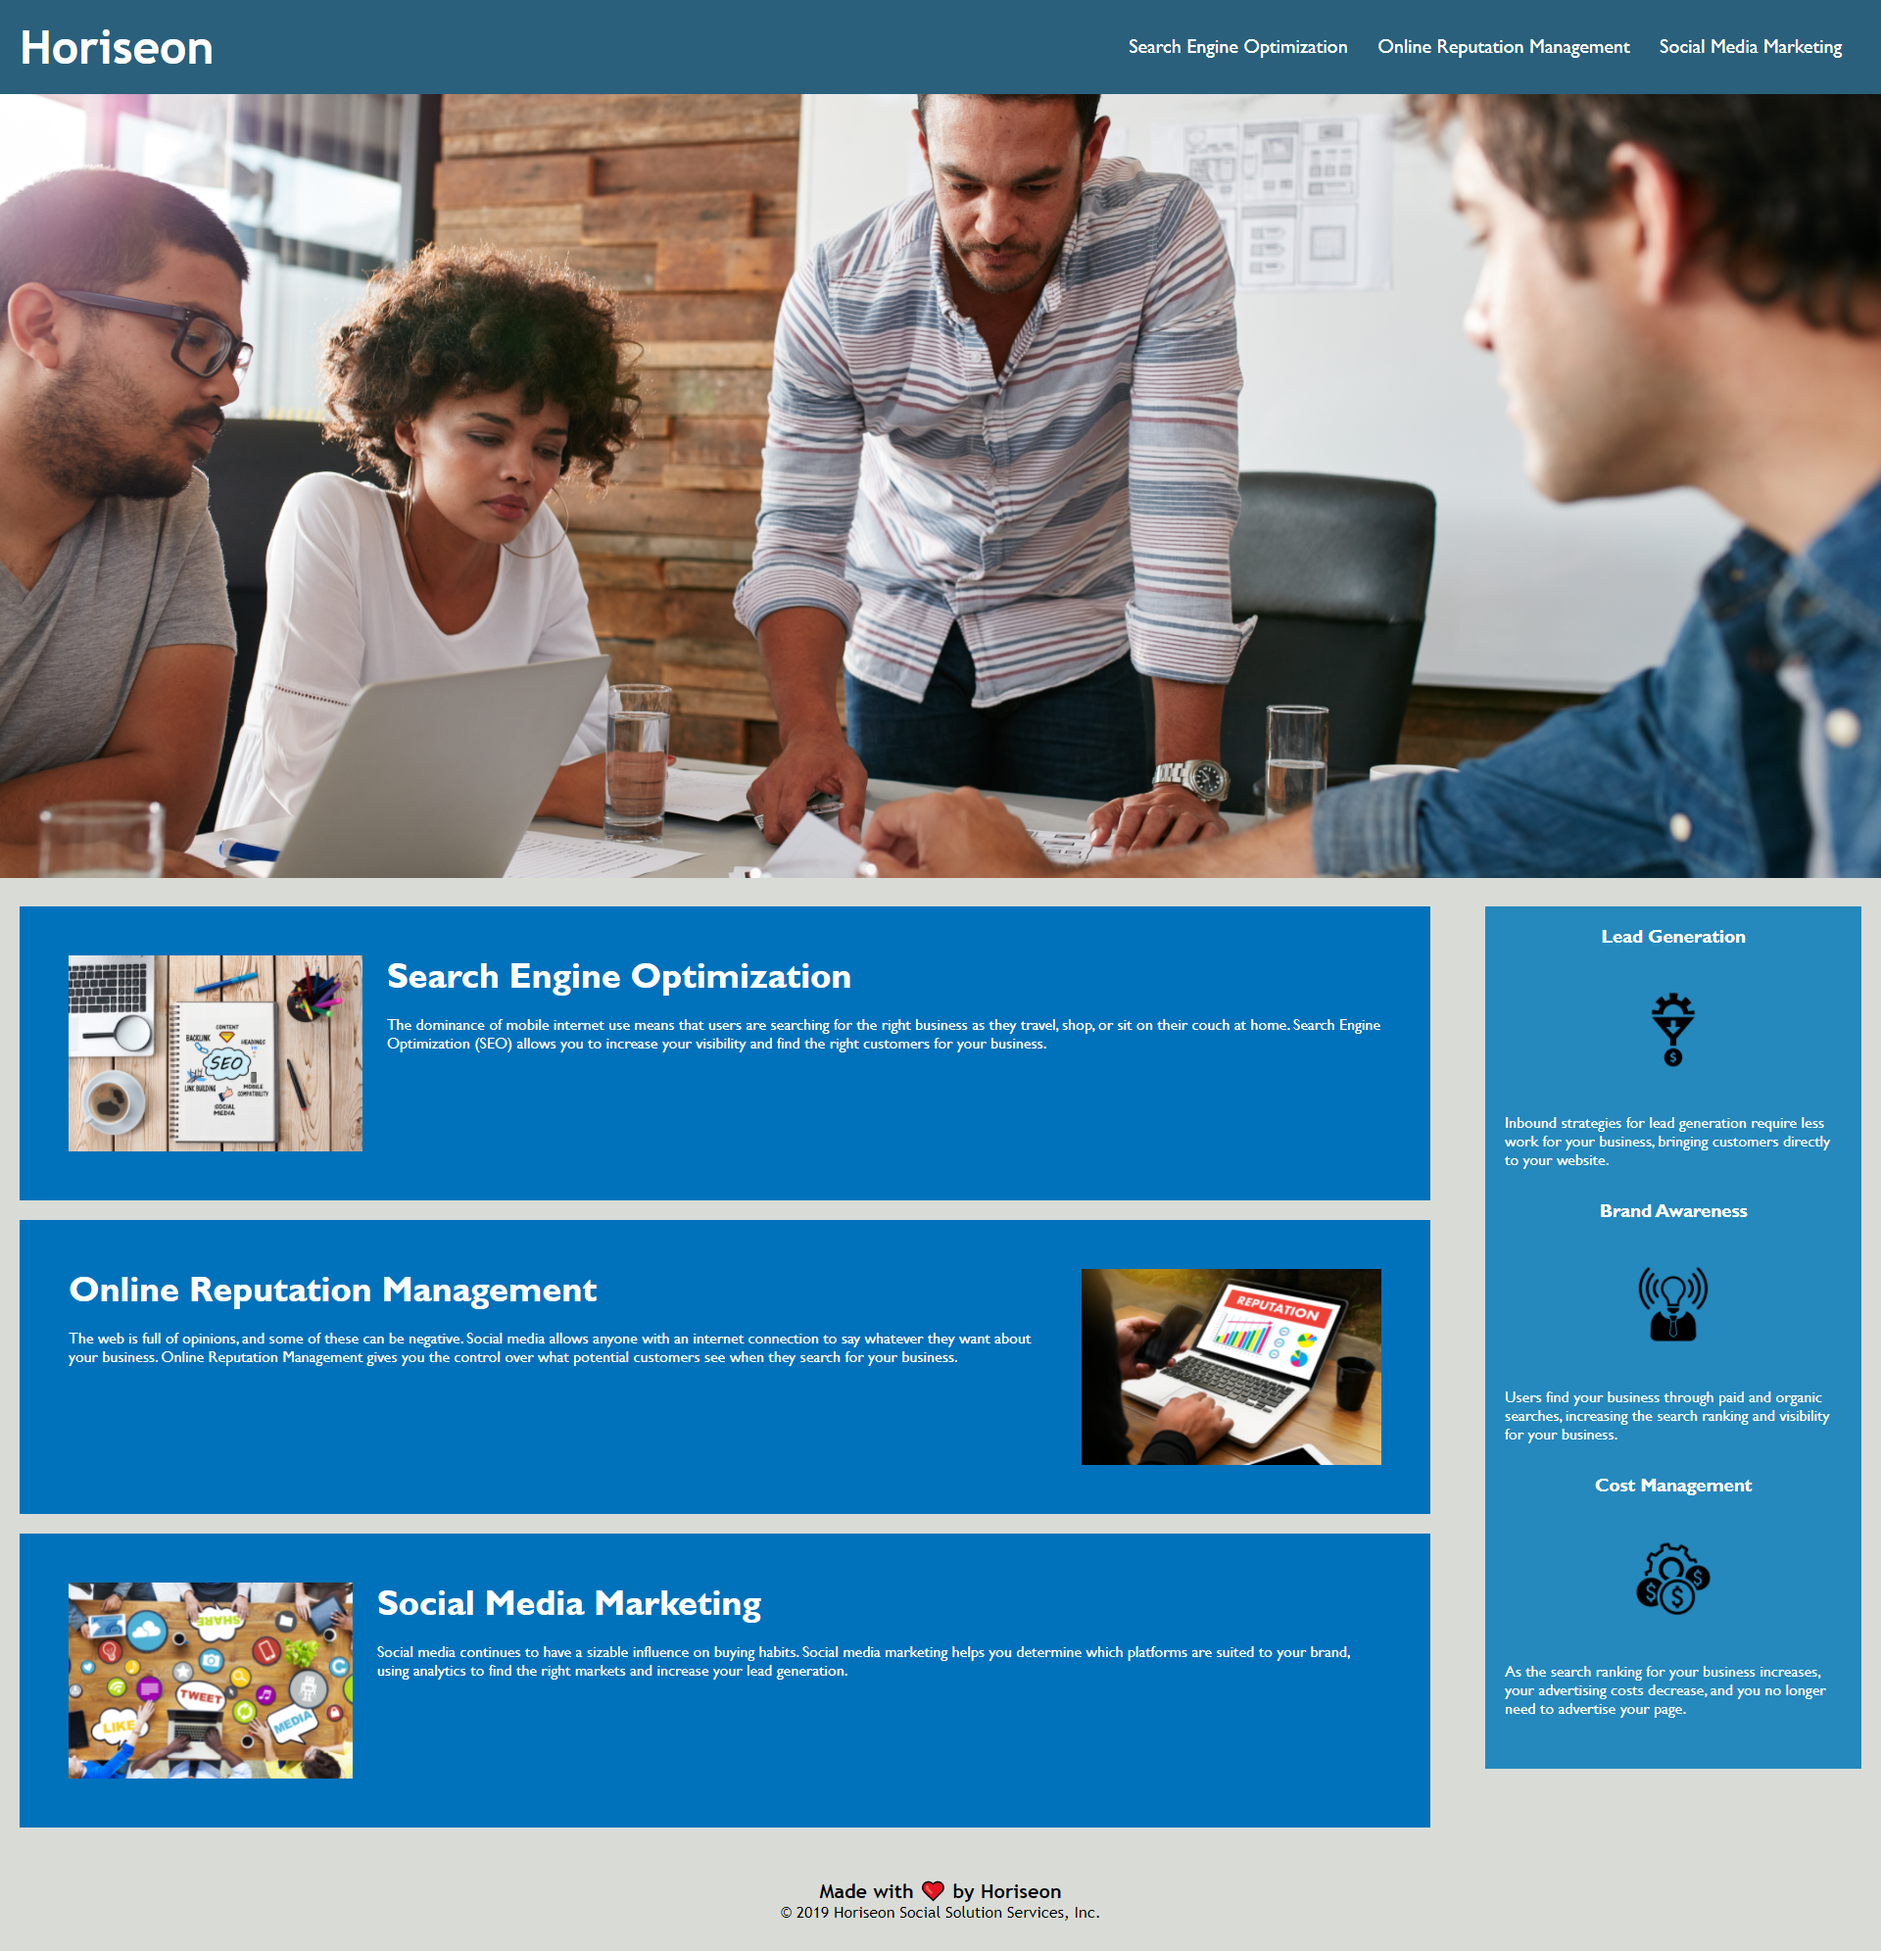
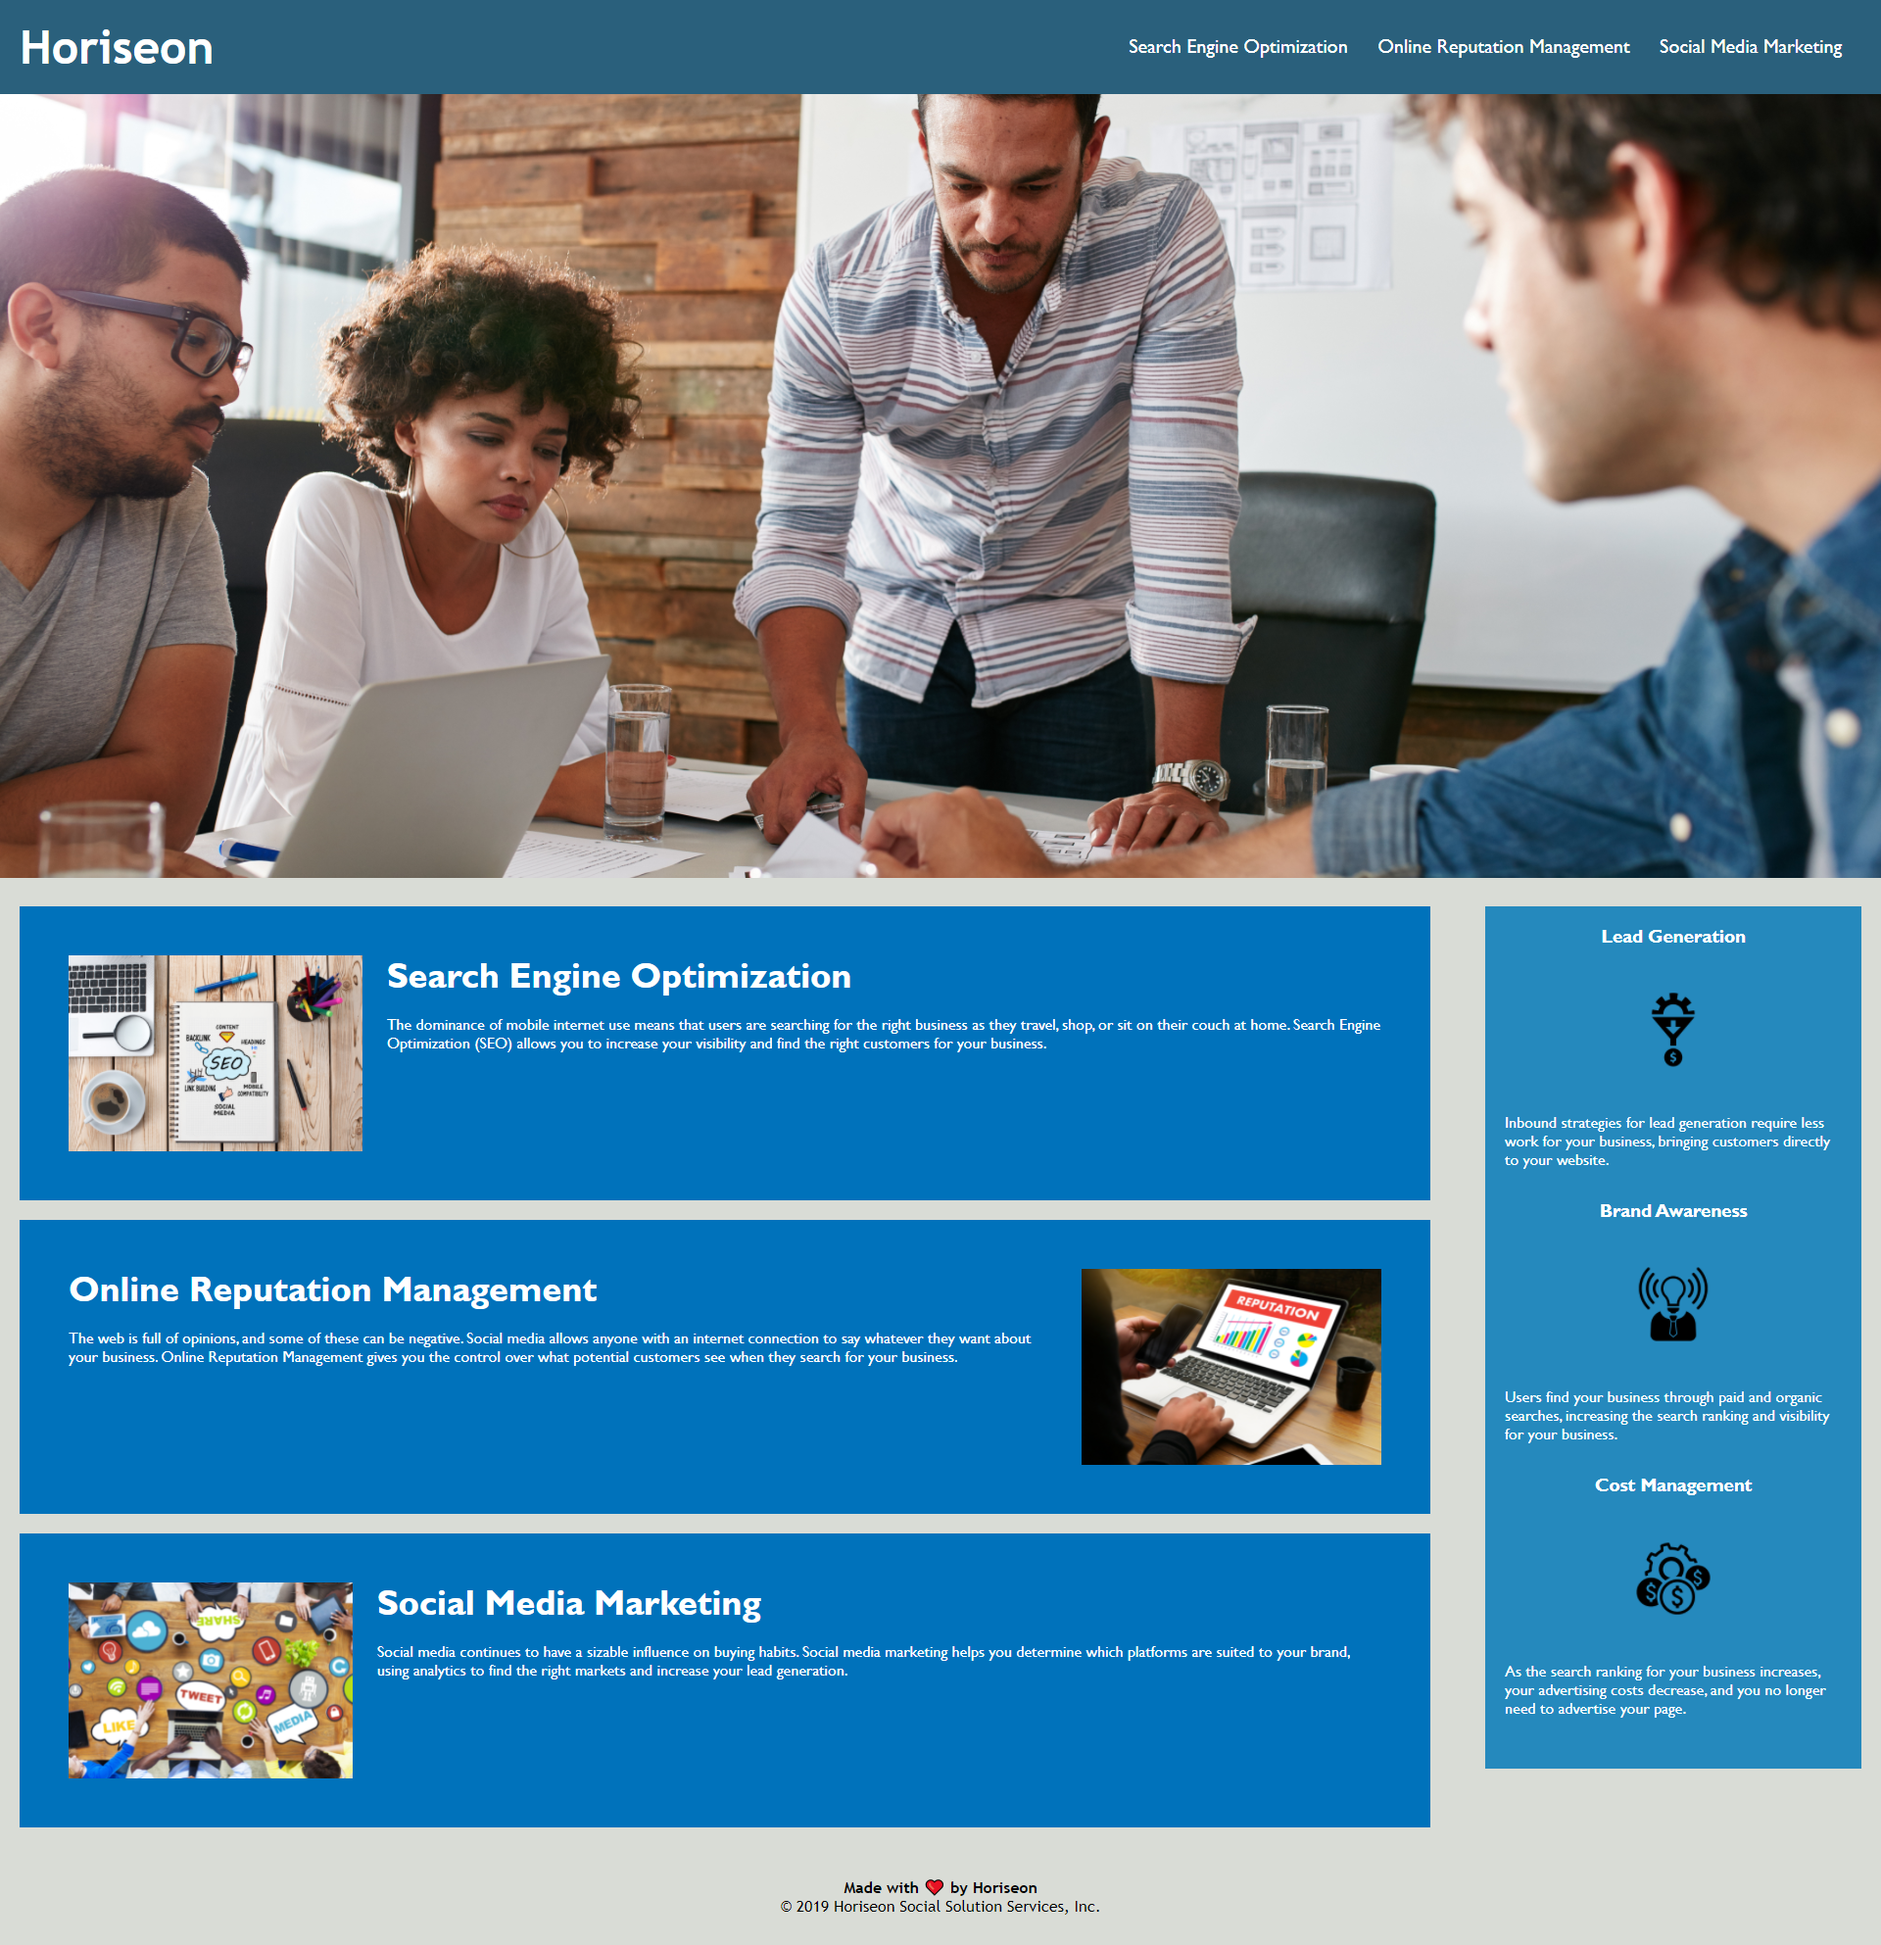
html correction README.md image update

diff --git a/index.html b/index.html
@@ -88,7 +88,7 @@
 
     <footer>
         <!-- footer follows -->
-        <h2>Made with ❤ by Horiseon</h2>
+        <h4>Made with ❤ by Horiseon</h4>
         <p>
             &copy; 2019 Horiseon Social Solution Services, Inc.
         </p>
